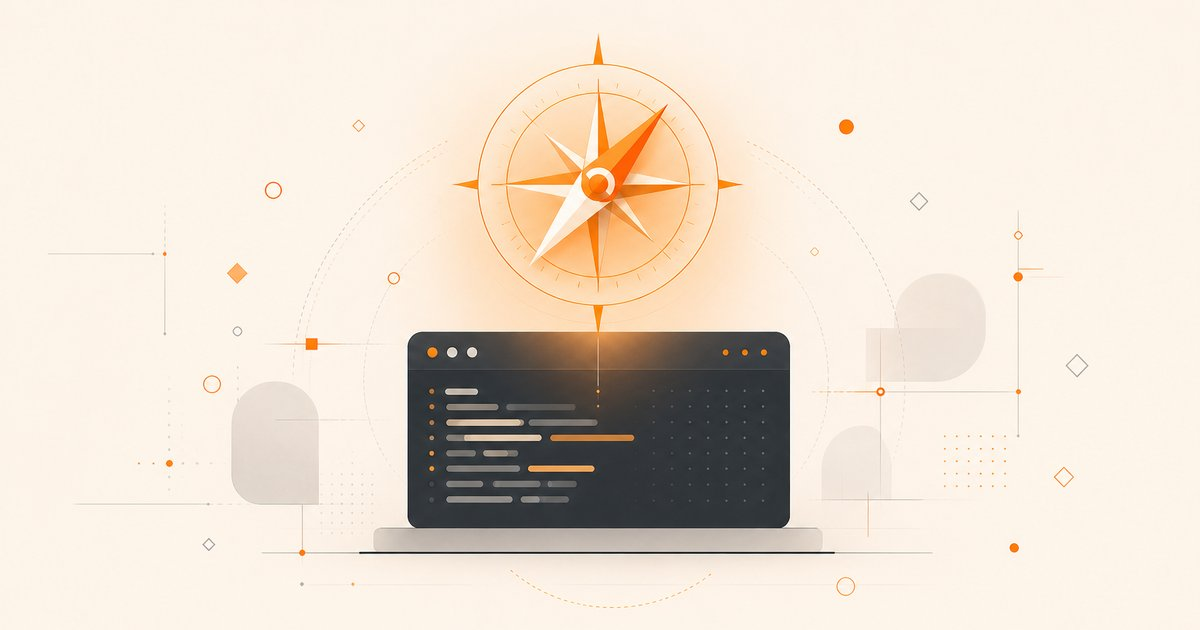
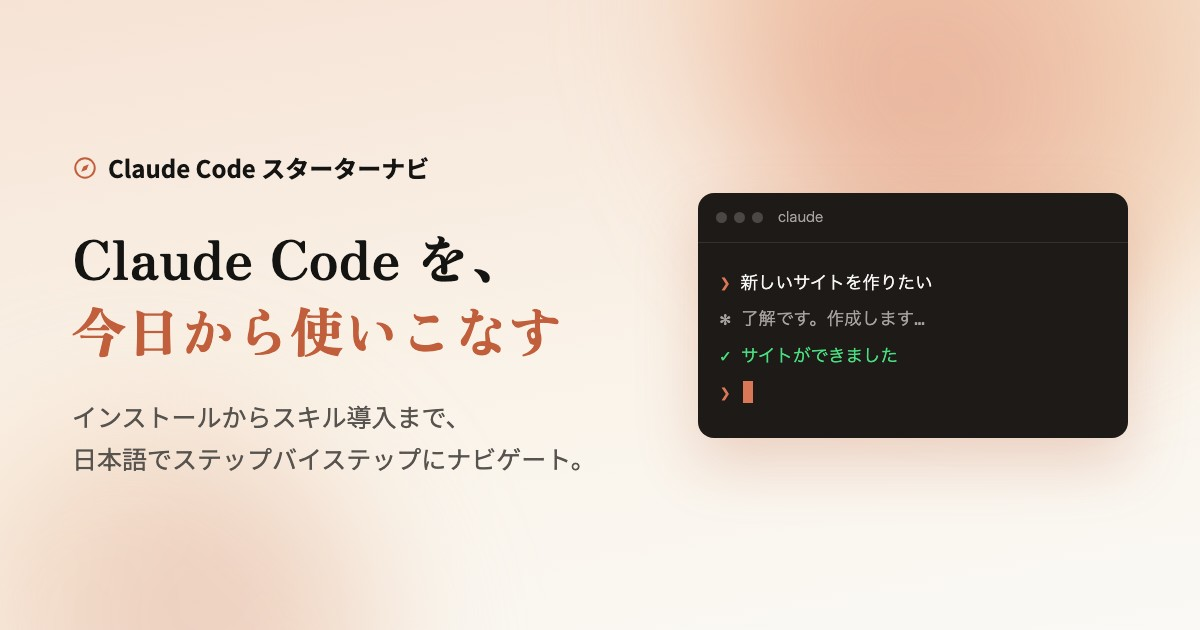
fix: resolve lint errors and refresh OGP image for new design
- Move loadDone to module scope (it only reads module-level data) to fix
  use-before-declaration, and suppress set-state-in-effect with a note:
  restoring persisted wizard state must happen after mount
- Regenerate ogp.jpg to match the redesigned hero (warm gradient, mincho
  headline, terminal demo)

diff --git a/src/components/SetupWizard.tsx b/src/components/SetupWizard.tsx
@@ -8,11 +8,25 @@ import CopyButton from "@/components/CopyButton";
 const OS_KEY = "navi-os";
 const doneKey = (os: OS) => `navi-done-${os}`;
 
+function loadDone(target: OS): boolean[] {
+  try {
+    const raw = localStorage.getItem(doneKey(target));
+    const parsed = raw ? (JSON.parse(raw) as boolean[]) : [];
+    return SETUP_STEPS[target].map((_, i) => parsed[i] ?? false);
+  } catch {
+    return SETUP_STEPS[target].map(() => false);
+  }
+}
+
 export default function SetupWizard() {
   const [os, setOs] = useState<OS | null>(null);
   const [done, setDone] = useState<boolean[]>([]);
   const [loaded, setLoaded] = useState(false);
 
+  // Restore persisted progress after mount: localStorage does not exist
+  // during prerender, so this cannot be a useState initializer without
+  // causing a hydration mismatch.
+  /* eslint-disable react-hooks/set-state-in-effect */
   useEffect(() => {
     const savedOs = localStorage.getItem(OS_KEY) as OS | null;
     if (savedOs && SETUP_STEPS[savedOs]) {
@@ -21,16 +35,7 @@ export default function SetupWizard() {
     }
     setLoaded(true);
   }, []);
-
-  function loadDone(target: OS): boolean[] {
-    try {
-      const raw = localStorage.getItem(doneKey(target));
-      const parsed = raw ? (JSON.parse(raw) as boolean[]) : [];
-      return SETUP_STEPS[target].map((_, i) => parsed[i] ?? false);
-    } catch {
-      return SETUP_STEPS[target].map(() => false);
-    }
-  }
+  /* eslint-enable react-hooks/set-state-in-effect */
 
   function selectOs(target: OS) {
     setOs(target);